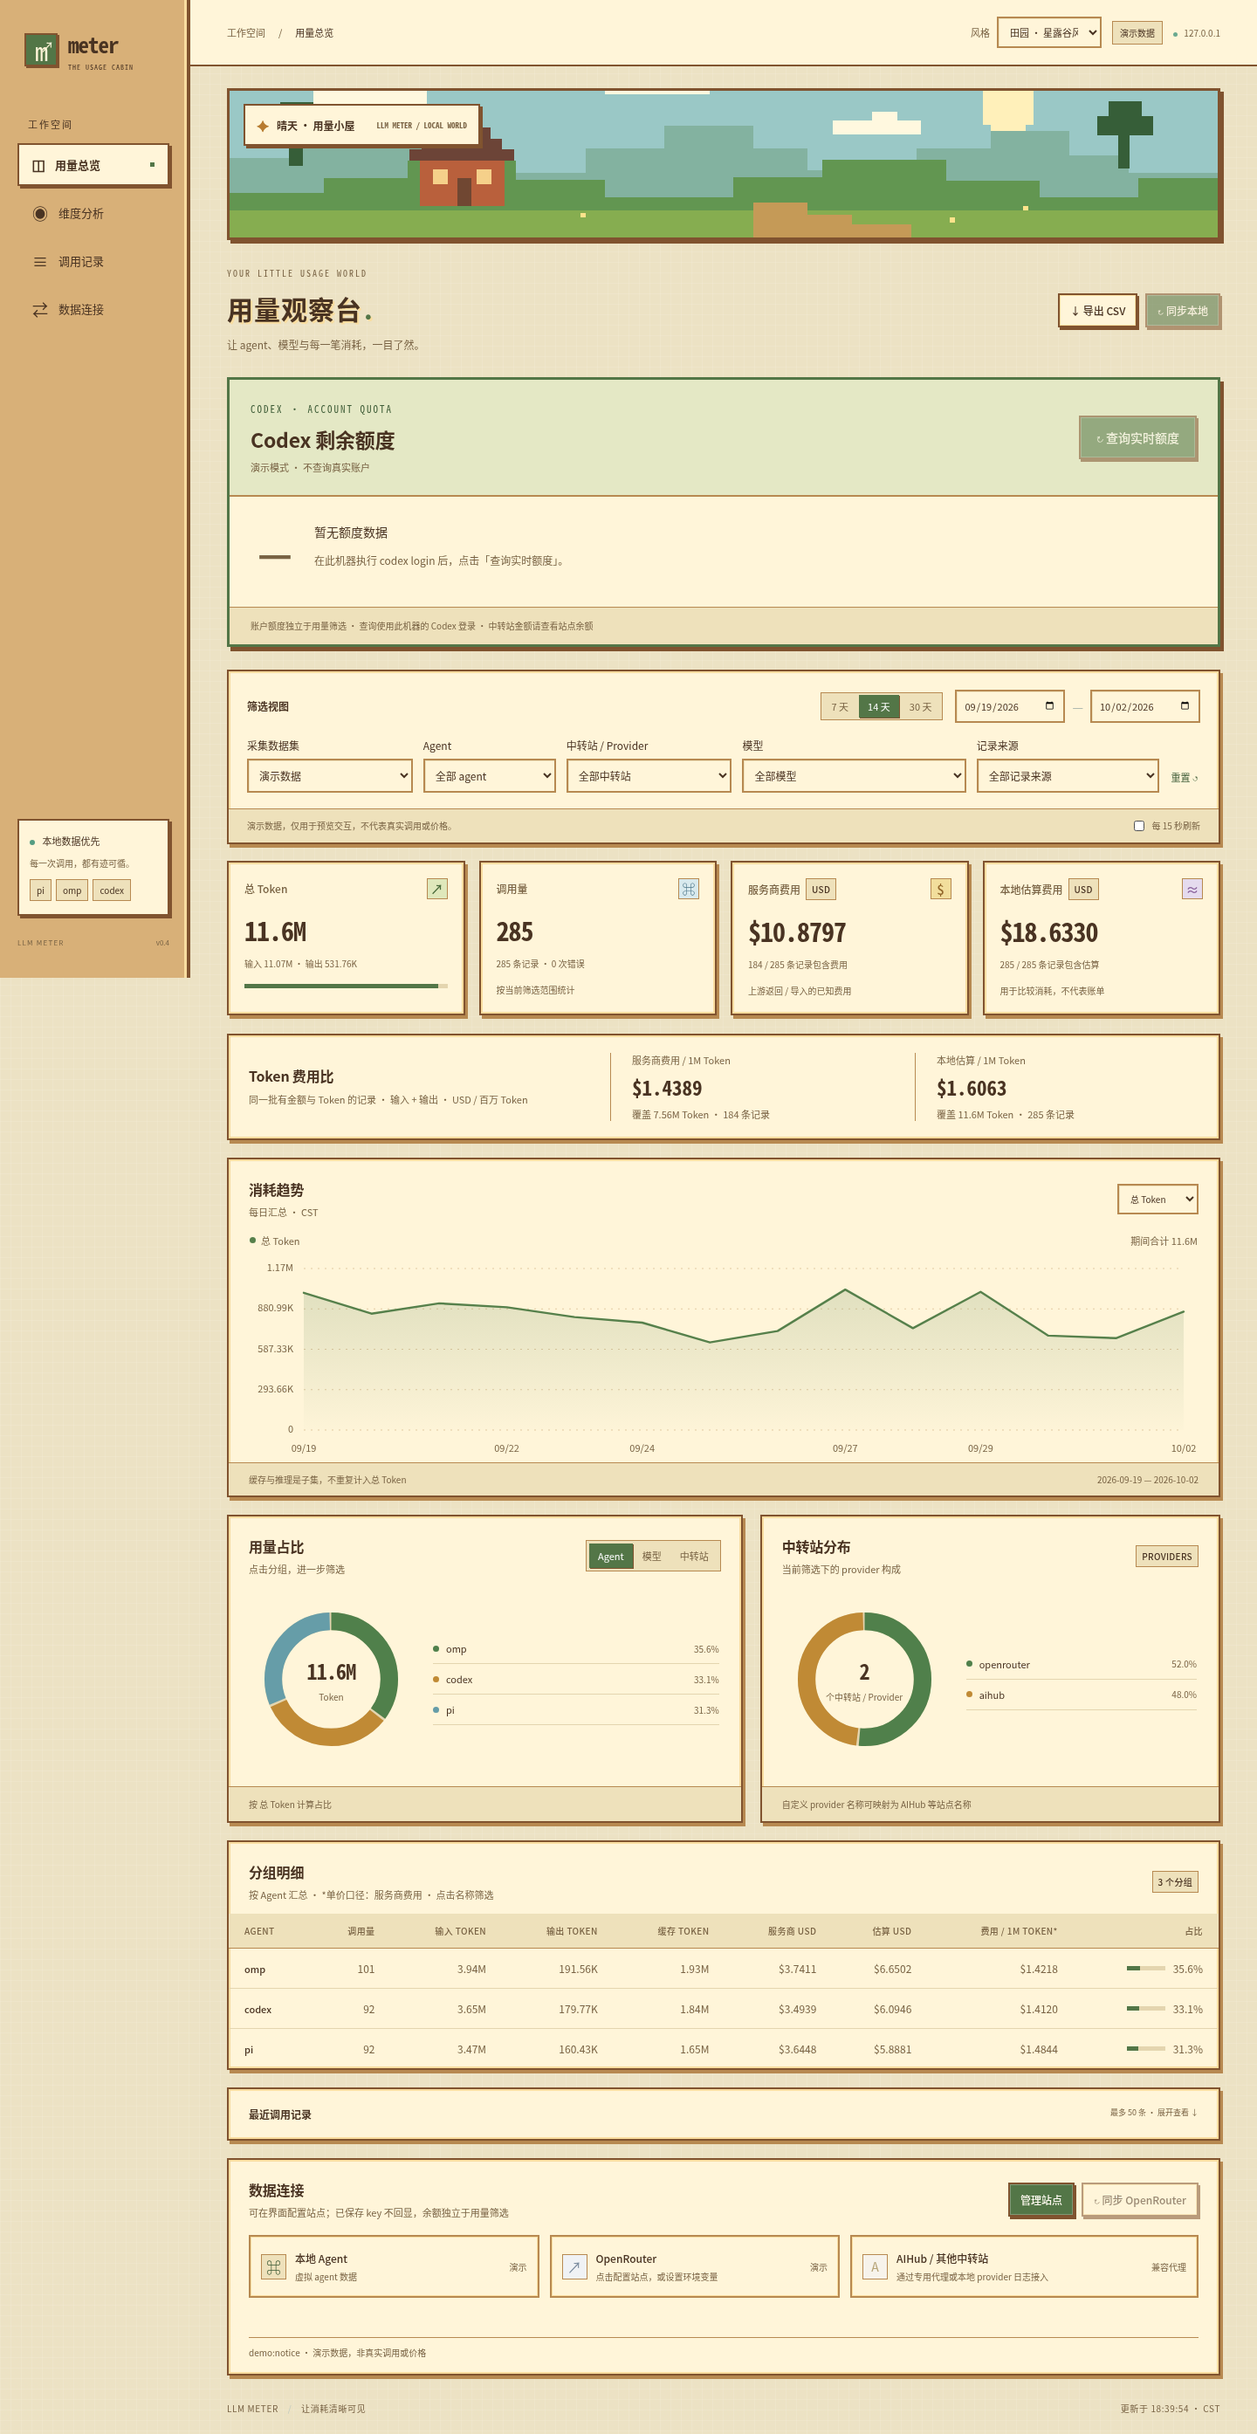
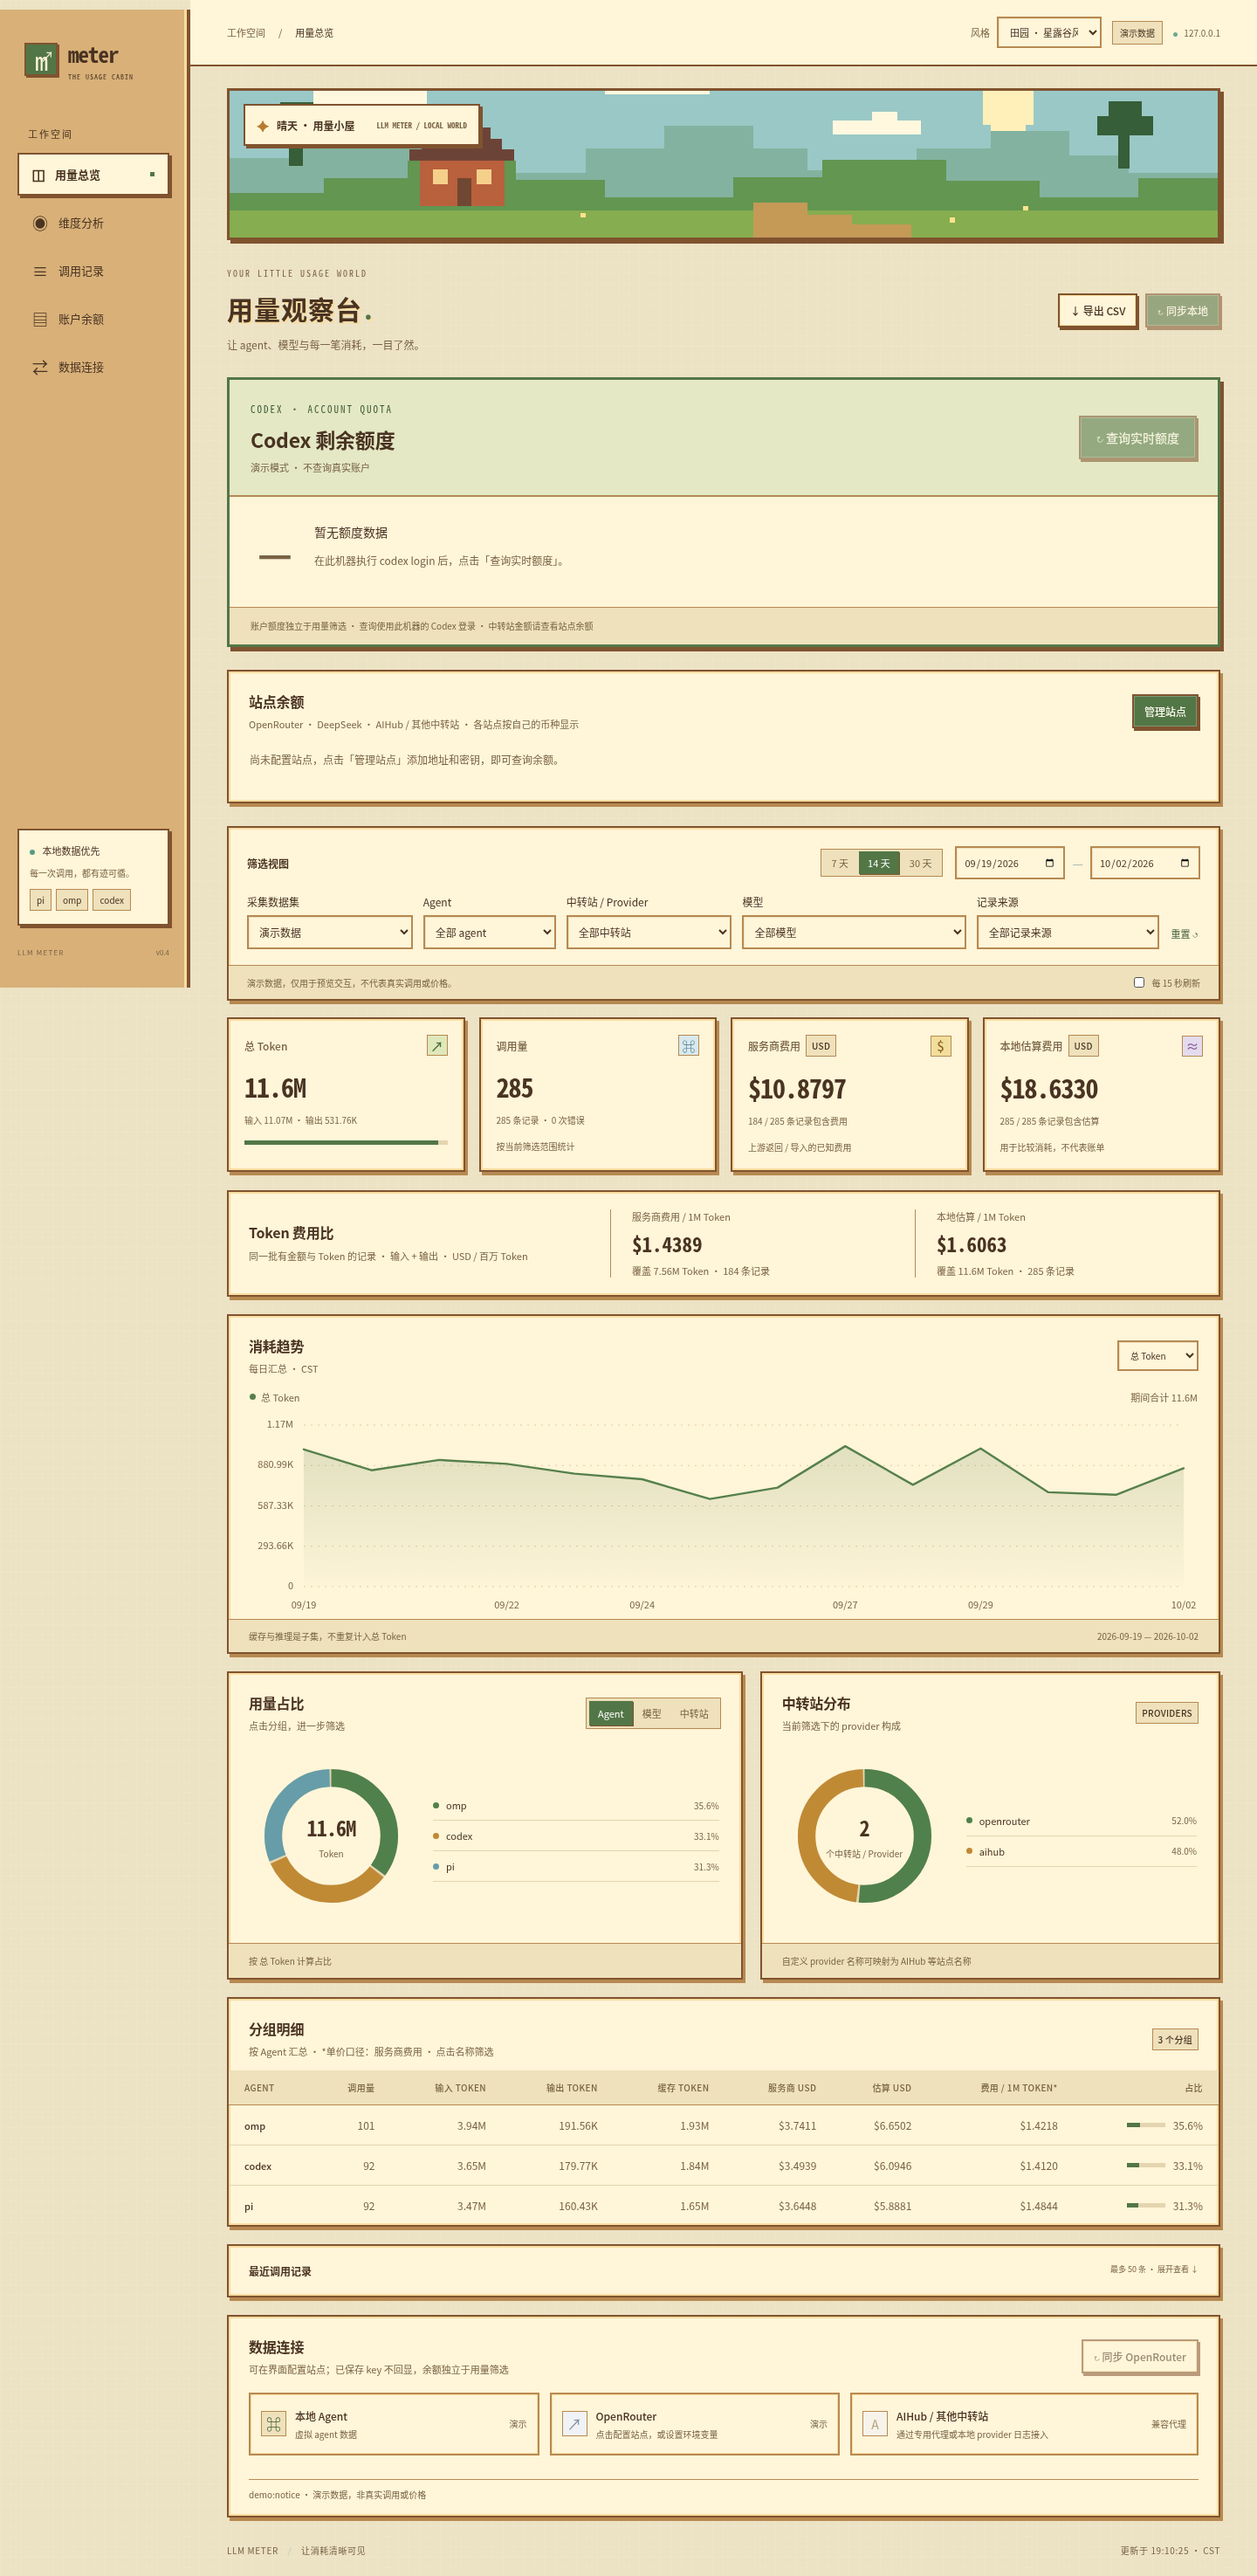
feat: show all provider balances directly after Codex quotas

Changed region(s): [[0.0, 0.0, 1.0, 0.5617], [0.1562, 0.5929, 0.9688, 0.9986], [0.0, 0.0, 0.1562, 0.156]]

diff --git a/meter_static/index.html b/meter_static/index.html
@@ -12,6 +12,7 @@
   <a class="nav-link active" href="#overview"><span>◫</span> 用量总览 <span class="nav-dot"></span></a>
   <a class="nav-link" href="#breakdown"><span>◉</span> 维度分析</a>
   <a class="nav-link" href="#records"><span>≡</span> 调用记录</a>
+  <a class="nav-link" href="#balances"><span>▤</span> 账户余额</a>
   <a class="nav-link" href="#connections"><span>⇄</span> 数据连接</a>
   <div class="sidebar-note"><span class="little-dot"></span> 本地数据优先<p>每一次调用，都有迹可循。</p><div class="agent-pills"><span>pi</span><span>omp</span><span>codex</span></div></div>
   <div class="sidebar-foot">LLM METER <span>v0.4</span></div>
@@ -37,6 +38,11 @@
     <div class="quota-heading"><div><span class="quota-eyebrow">CODEX · ACCOUNT QUOTA</span><h2>Codex 剩余额度</h2><p id="codexQuotaStatus">尚未查询 · 点击右侧按钮获取当前额度</p></div><button id="codexLimitsBtn" class="button primary">↻ 查询实时额度</button></div>
     <div id="codexQuotaCards" class="quota-cards" aria-live="polite"></div>
     <div class="quota-foot">账户额度独立于用量筛选 · 查询使用此机器的 Codex 登录 · 中转站金额请查看站点余额</div>
+  </section>
+  <section class="panel balance-dashboard" id="balances" aria-label="站点余额">
+    <div class="panel-heading"><div><h2>站点余额</h2><p>OpenRouter · DeepSeek · AIHub / 其他中转站 · 各站点按自己的币种显示</p></div><button id="configureSitesBtn" class="button primary">管理站点</button></div>
+    <p id="balanceEmpty" class="balance-empty">尚未配置站点，点击「管理站点」添加地址和密钥，即可查询余额。</p>
+    <div id="balanceCards" class="balance-cards"></div>
   </section>
   <div id="feedback" class="feedback" role="status" hidden></div>
   <section class="filter-panel" aria-label="统计筛选">
@@ -74,7 +80,7 @@
   </section>
   <section class="panel table-panel"><div class="panel-heading"><div><h2>分组明细</h2><p id="tableSubtitle">按 Agent 汇总</p></div><span id="groupCount" class="small-tag"></span></div><div class="table-scroll"><table><thead><tr><th id="dimensionLabel">AGENT</th><th>调用量</th><th>输入 TOKEN</th><th>输出 TOKEN</th><th>缓存 TOKEN</th><th>服务商 USD</th><th>估算 USD</th><th>费用 / 1M TOKEN*</th><th>占比</th></tr></thead><tbody id="groupTable"></tbody></table></div></section>
   <details class="panel records-panel" id="records"><summary><span>最近调用记录</span><span class="records-hint">最多 50 条 · 展开查看 ↓</span></summary><div class="table-scroll"><table><thead><tr><th>时间</th><th>Agent</th><th>中转站</th><th>模型</th><th>TOKEN</th><th>服务商 USD</th><th>估算 USD</th><th>状态</th></tr></thead><tbody id="recentTable"></tbody></table></div></details>
-  <section class="panel connection-panel" id="connections"><div class="panel-heading"><div><h2>数据连接</h2><p>可在界面配置站点；已保存 key 不回显，余额独立于用量筛选</p></div><div class="connection-actions"><button id="configureSitesBtn" class="button primary">管理站点</button><button id="routerSyncBtn" class="button secondary">↻ 同步 OpenRouter</button></div></div><div class="connection-grid"><div class="connection-item"><span class="connection-logo">⌘</span><div><strong>本地 Agent</strong><p id="localConnection">pi · omp · codex</p></div><span class="connection-status" id="localState">就绪</span></div><div class="connection-item"><span class="connection-logo router">↗</span><div><strong>OpenRouter</strong><p id="routerConnection">等待配置环境变量</p></div><span class="connection-status" id="routerState">待接入</span></div><div class="connection-item"><span class="connection-logo hub">A</span><div><strong>AIHub / 其他中转站</strong><p>通过专用代理或本地 provider 日志接入</p></div><span class="connection-status muted">兼容代理</span></div></div><div id="balanceCards" class="balance-cards"></div><div id="snapshots" class="snapshot-list"></div></section>
+  <section class="panel connection-panel" id="connections"><div class="panel-heading"><div><h2>数据连接</h2><p>可在界面配置站点；已保存 key 不回显，余额独立于用量筛选</p></div><div class="connection-actions"><button id="routerSyncBtn" class="button secondary">↻ 同步 OpenRouter</button></div></div><div class="connection-grid"><div class="connection-item"><span class="connection-logo">⌘</span><div><strong>本地 Agent</strong><p id="localConnection">pi · omp · codex</p></div><span class="connection-status" id="localState">就绪</span></div><div class="connection-item"><span class="connection-logo router">↗</span><div><strong>OpenRouter</strong><p id="routerConnection">等待配置环境变量</p></div><span class="connection-status" id="routerState">待接入</span></div><div class="connection-item"><span class="connection-logo hub">A</span><div><strong>AIHub / 其他中转站</strong><p>通过专用代理或本地 provider 日志接入</p></div><span class="connection-status muted">兼容代理</span></div></div><div id="snapshots" class="snapshot-list"></div></section>
   <div id="qualityNotes" class="quality-note"></div>
   <footer class="page-footer"><span>LLM METER <span class="footer-divider">/</span> 让消耗清晰可见</span><span id="updatedAt">等待数据</span></footer>
 </div>

diff --git a/meter_static/style.css b/meter_static/style.css
@@ -30,3 +30,5 @@ body{background-color:var(--bg);background-image:linear-gradient(90deg,#ffffff18
 @media(max-width:600px){.topbar{height:auto;min-height:66px;padding:12px 15px;gap:10px;flex-wrap:wrap}.topbar-right{margin-left:auto}.topbar-right .local-status{display:none}.theme-picker select{max-width:160px;font-size:11px}.page{padding:20px 14px}.landscape{height:132px;margin-bottom:25px}.landscape-caption{top:12px;left:12px;font-size:11px;padding:6px 9px}.page-heading{gap:12px}h1{font-size:25px;letter-spacing:0}.page-heading p{font-size:11px;max-width:200px}.eyebrow{font-size:8px;letter-spacing:1px}.heading-actions .button{font-size:10px;padding:8px}.stat-card{padding:14px 12px}.stat-head{font-size:10px}.stat-value{font-size:25px}.stat-detail{font-size:9px}.stat-foot{font-size:9px}.small-tag{font-size:8px}.filter-footer>span{font-size:9px}.auto-refresh{font-size:9px}.donut-layout{gap:10px}.donut-center span{font-size:8px}.legend-row{font-size:10px}.dimension-switch button{font-size:10px;padding:6px}.panel-heading{gap:6px}h2{font-size:15px}.chart-controls select{font-size:10px;max-width:105px}.unit-stat strong{font-size:20px}.connection-actions{flex-wrap:wrap}.settings-layout{grid-template-columns:1fr}.settings-dialog{padding:20px}.codex-quota{margin-left:16px;margin-right:16px}.codex-quota .button{margin-top:8px}.page-footer{font-size:8px;gap:10px}.balance-card-header{font-size:12px}}
 
 .quota-dashboard{margin-bottom:26px;border:3px solid var(--green);box-shadow:4px 5px var(--frame);overflow:hidden}.quota-heading{padding:22px 24px;display:flex;align-items:center;justify-content:space-between;gap:16px;background:var(--green-light);border-bottom:2px solid var(--line)}.quota-eyebrow{font:11px ui-monospace,monospace;letter-spacing:2px;color:var(--green-dark)}.quota-heading h2{font-size:23px;margin:9px 0 6px}.quota-heading p{color:var(--muted);font-size:11px;margin:0;line-height:1.8;overflow-wrap:anywhere}.quota-heading .button{font-size:14px;padding:13px 18px}.quota-cards{display:grid;grid-template-columns:repeat(auto-fit,minmax(230px,1fr));gap:18px;padding:22px 24px}.quota-card{border:2px solid var(--line);padding:18px;background:var(--panel);min-width:0}.quota-card-label{color:var(--ink);font-size:12px;font-weight:650;display:flex;gap:10px;justify-content:space-between;flex-wrap:wrap;overflow-wrap:anywhere}.quota-card-label span{color:var(--muted);font-size:11px;font-weight:400}.quota-value{font:700 44px ui-monospace,monospace;color:var(--green-dark);margin:15px 0;overflow-wrap:anywhere}.quota-value small{font:12px var(--font);margin-left:10px;color:var(--muted)}.quota-meter{height:14px;background:var(--track);border:1px solid var(--line);padding:2px}.quota-meter i{display:block;height:100%;background:var(--green)}.quota-reset{font-size:11px;color:var(--muted);margin-top:12px;line-height:1.8}.quota-card.low{border-color:#ad7d30}.quota-card.low .quota-value{color:#946320}.quota-card.low .quota-meter i{background:#ad7d30}.quota-card.depleted{border-color:#aa5148}.quota-card.depleted .quota-value,.quota-card.depleted .quota-reset{color:#a1433c}.quota-card.depleted .quota-meter i{background:#aa5148}.quota-empty{grid-column:1/-1;display:flex;align-items:center;gap:25px;color:var(--ink);padding:8px}.quota-empty strong{font:700 44px ui-monospace,monospace;color:var(--muted)}.quota-empty p{font-size:12px;color:var(--muted);line-height:1.8}.quota-foot{font-size:10px;color:var(--muted);padding:12px 24px;border-top:1px solid var(--line);background:var(--soft);line-height:1.8}@media(max-width:600px){.quota-heading{padding:18px 16px;align-items:flex-start;flex-direction:column}.quota-heading h2{font-size:22px}.quota-heading .button{width:100%;font-size:13px}.quota-cards{padding:16px;grid-template-columns:1fr;gap:12px}.quota-value{font-size:40px}.quota-foot{padding:12px 16px}.quota-empty{padding:0;gap:18px}}
+
+.balance-dashboard{margin-bottom:26px;scroll-margin-top:25px}.balance-dashboard .panel-heading{padding-bottom:20px}.balance-dashboard .balance-number{font-size:32px}.balance-empty{padding:0 24px 20px;color:var(--muted);font-size:12px;line-height:1.8;margin:0}.balance-empty[hidden]{display:none}@media(max-width:600px){.balance-dashboard .panel-heading{flex-direction:column;align-items:flex-start;gap:12px}.balance-dashboard .panel-heading .button{align-self:stretch}.balance-dashboard .balance-number{font-size:30px}.balance-empty{padding-left:16px;padding-right:16px}}

diff --git a/meter_static/app.js b/meter_static/app.js
@@ -123,6 +123,7 @@ function settingsMessage(message,error=false){$('settingsFeedback').hidden=!mess
 async function siteRequest(path,body){const response=await fetch(path,{method:'POST',headers:{'Content-Type':'application/json','X-Meter-Request':'1'},body:JSON.stringify(body)});const data=await response.json();if(!response.ok)throw new Error(data.error||'站点操作失败');return data;}
 async function loadSites(){try{const response=await fetch('/api/connections');const data=await response.json();if(!response.ok)throw new Error(data.error||'配置读取失败');siteConfigs=data.connections;renderSites();}catch(error){if($('settingsDialog').open)settingsMessage(error.message,true);}}
 function renderSites(){
+$('balanceEmpty').hidden=siteConfigs.length>0;
 $('savedSites').replaceChildren();$('balanceCards').replaceChildren();
 if(!siteConfigs.length){const empty=document.createElement('p');empty.className='settings-note';empty.textContent='还没有站点。右侧填写名称、地址和 key 后保存。';$('savedSites').append(empty);}
 for(const item of siteConfigs){

diff --git a/README.md b/README.md
@@ -901,3 +901,8 @@ python3 llm_meter.py web --codex-home /path/to/codex-home
 页面标题下方固定展示 Codex 剩余额度，不必滚动到数据连接。主额度和次额度分别显示大号剩余百分比、进度条及重置时间；接口返回 credits 时单独展示。剩余不超过 25% 显示橙色，不超过 10% 显示红色。卡片注明实时查询或日志快照及更新时间，超过 5 分钟提醒重新查询；未知额度不会显示为 0%。点击卡片中的「查询实时额度」获取最新结果。
 
 ![Codex 额度卡片（示例数据）](preview-quota.png)
+
+
+### 余额展示顺序
+
+页面前部依次展示 **Codex 剩余额度 → 所有已配置站点余额 → 用量筛选与统计图表**。OpenRouter、DeepSeek 和中转站余额集中在「站点余额」区域，可直接查询或编辑；「管理站点」入口也在该区域。侧栏「账户余额」可快速跳转。金额保留各站点币种，不混合相加。
